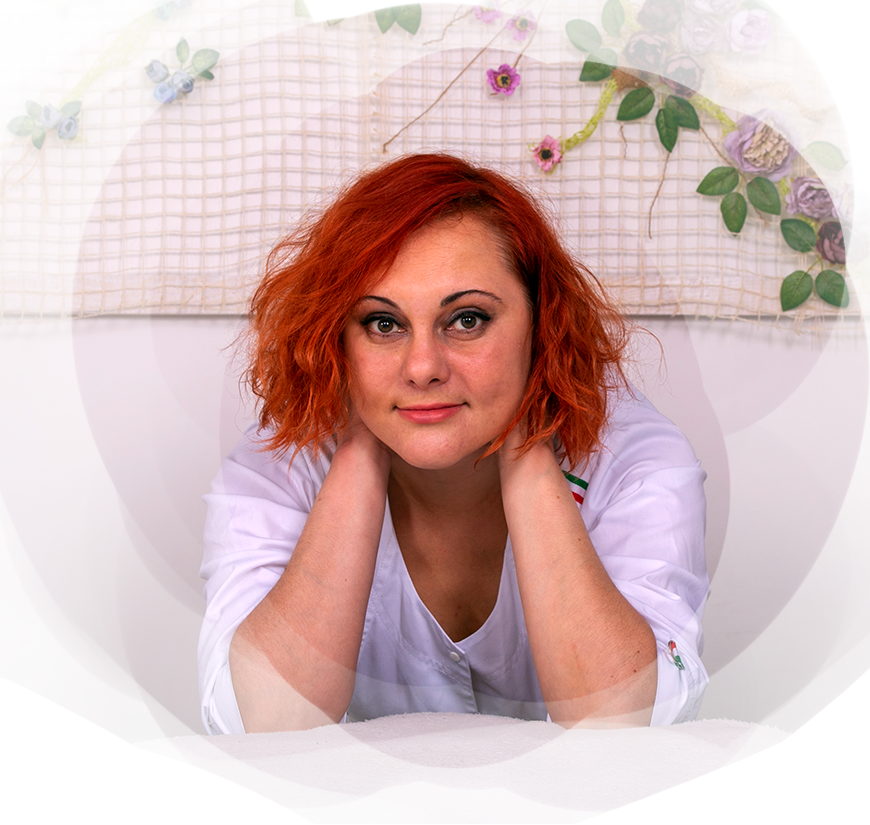
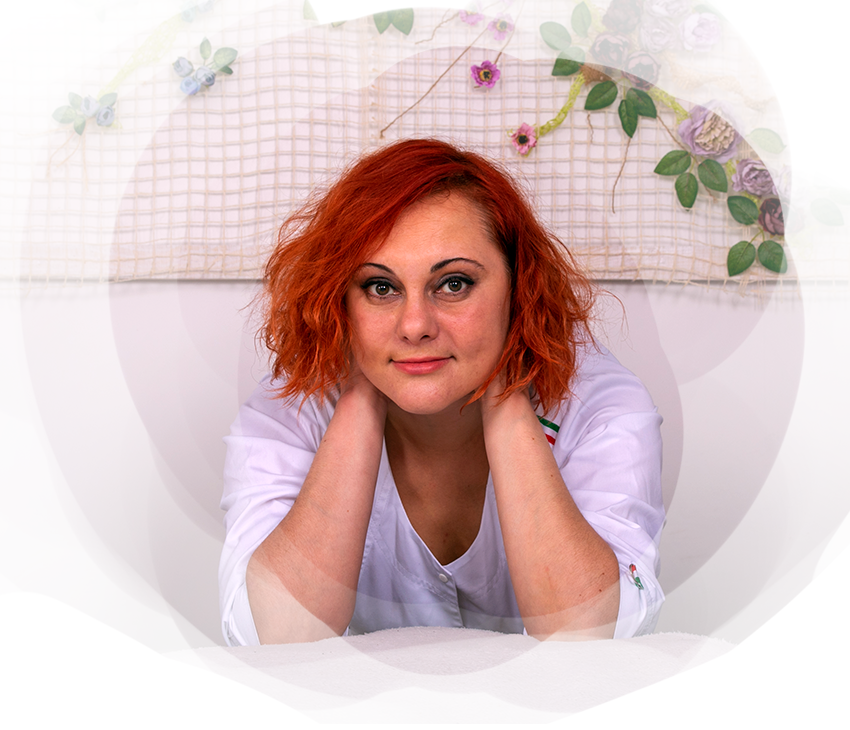
Add files via upload

diff --git a/adaptive/adaptive.css b/adaptive/adaptive.css
@@ -38,7 +38,7 @@
         max-width: 1199px;
         min-width: 992px;
     }
-.top_panel h2{
+    .top_panel h2{
         font-size:21px;
         margin-top: 32px;
     }
@@ -55,8 +55,16 @@
         height: 200px;
     }
     .who_work img{
-        width: 300px;
-        margin-right: 90px;
+        width: 350px;
+        margin-right: 0px;
+    }
+
+    .who_text h1{
+        font-size: 20px;
+    }
+    
+    .who_text p{
+        font-size: 20px;
     }
     .who_list img{
         width: 40px;
@@ -81,12 +89,18 @@
     }
     .reviews{
         margin-top: 600px;
-}
-.reviews_text p{
+    }
+    .reviews_text p{
         font-size: 12px;
         margin-top: 4px;
     }
-.reviews_text_2 p{
+
+    .reviews_text_2{
+        float: right;
+        margin-right: 2gty0px;
+        margin-top: 0px;
+    }
+    .reviews_text_2 p{
         font-size: 12px;
         margin-top: 4px;
     }
@@ -191,7 +205,8 @@
     .who_work img{
         width: 300px;
         float: right;
-        margin-right: 90px;
+        margin-right: 0px;
+        padding: 0px;
     }
 
     .who_text h1{
@@ -427,7 +442,7 @@
     .who_work img{
         width: 220px;
         float: right;
-        margin-right: 90px;
+        margin-right: 0px;
     }
 
     .who_text h1{
@@ -569,6 +584,10 @@
 /*******************************************************************************/
 
 @media (max-width: 575px) { 
+
+    body{
+        background-size: cover;
+    }
     .container{
         max-width: 575px;
     }
@@ -690,10 +709,9 @@
     }
 
     .who_work img{
-        width: 210px;
-        height: 210px;
-        float: left;
-        margin-left: 0px;
+        width: 180px;
+        float:center;
+        margin-right: 70px;
     }
 
     .who_text h1{

diff --git a/index.html b/index.html
@@ -16,7 +16,7 @@
                     <div class="top_panel_inner">
                     <img src="img/Лого.png"/>
                     <h1>Студія здоров’я Нaталії Зaпорожченко</h1>
-                    <h2><a href="tel:+38(067) 992-82-72">+38(067) 992-82-72</a></h2>
+                    <h2><a href="tel:+38(067) 992-82-72">+38(067)992-82-72</a></h2>
                     </div>
                 </div>
             </div>
